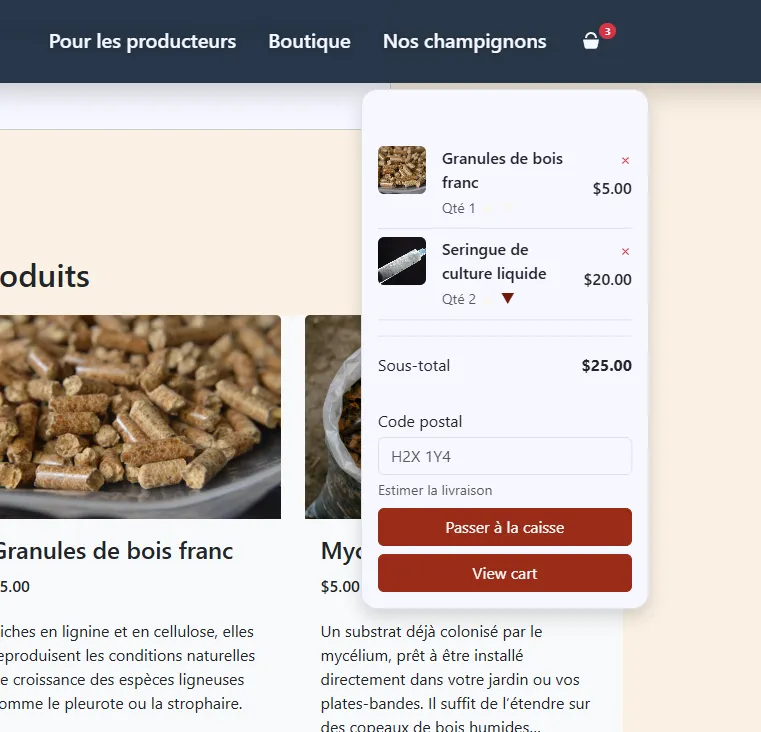
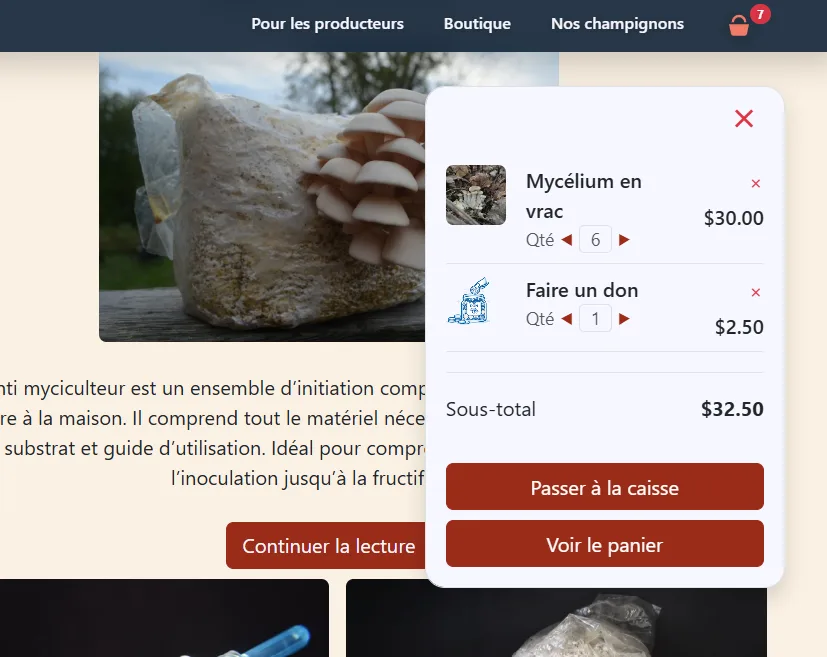
Rework Sporacultus section layout

diff --git a/index.html b/index.html
@@ -249,6 +249,48 @@
                 <span data-only="recruteur" class="badge text-bg-secondary">WooCommerce</span>
                 <span data-only="recruteur" class="badge text-bg-secondary">JavaScript</span>
               </div>
+              <!-- Même grille que Wabasso : média à gauche, texte et bouton à droite -->
+              <div class="row g-4 g-lg-5 align-items-start">
+                <div class="col-12 col-lg-7">
+                  <div class="cursor-label mb-4">
+                    <div class="position-relative">
+                      <video
+                        class="rounded-4 img-fluid d-block w-100"
+                        src="assets/video/spora-demo.mp4"
+                        poster="assets/img/spora-demo-poster.jpg"
+                        autoplay
+                        muted
+                        loop
+                        playsinline
+                        preload="metadata"
+                        aria-label="Démonstration de l'animation interactive de la page d'accueil de Sporacultus"
+                      ></video>
+                      <a
+                        href="https://sporacultus.ca/"
+                        target="_blank"
+                        rel="noopener"
+                        class="badge rounded-pill text-bg-dark text-decoration-none position-absolute bottom-0 end-0 m-3 fs-6"
+                        >sporacultus.ca ↗</a
+                      >
+                    </div>
+                    <span class="cursor-label__text"
+                      >Vrai site en production, animation codée en JavaScript
+                      natif</span
+                    >
+                  </div>
+                  <div class="cursor-label col-sm-8">
+                    <img
+                      src="assets/img/spora-shop-and-minicart.webp"
+                      alt="Boutique Sporacultus avec mini-panier ouvert"
+                      class="rounded-4 img-fluid d-block w-100"
+                      loading="lazy"
+                    />
+                    <span class="cursor-label__text"
+                      >Mini-panier fait sur mesure</span
+                    >
+                  </div>
+                </div>
+                <div class="col-12 col-lg-5">
               <p class="mb-4">
                 Sporacultus est mon projet personnel de culture de champignons.
                 À l'origine un site vitrine, je le fais évoluer en boutique
@@ -262,59 +304,7 @@
                 découvre les produits que je mets de l'avant en creusant la
                 terre, puis on peut les faire pousser.
               </p>
-              <div class="cursor-label mb-4">
-                <div class="position-relative">
-                  <video
-                    class="rounded-4 img-fluid d-block w-100"
-                    src="assets/video/spora-demo.mp4"
-                    poster="assets/img/spora-demo-poster.jpg"
-                    autoplay
-                    muted
-                    loop
-                    playsinline
-                    preload="metadata"
-                    aria-label="Démonstration de l'animation interactive de la page d'accueil de Sporacultus"
-                  ></video>
-                  <a
-                    href="https://sporacultus.ca/"
-                    target="_blank"
-                    rel="noopener"
-                    class="badge rounded-pill text-bg-dark text-decoration-none position-absolute bottom-0 end-0 m-3 fs-6"
-                    >sporacultus.ca ↗</a
-                  >
-                </div>
-                <span class="cursor-label__text"
-                  >Vrai site en production, animation codée en JavaScript
-                  natif</span
-                >
-              </div>
-              <div class="row g-3 align-items-start justify-content-center">
-                <div class="col-12 col-sm-4">
-                  <img
-                    src="assets/img/spora-shop.webp"
-                    alt="Page boutique de Sporacultus"
-                    class="rounded-4 img-fluid"
-                    loading="lazy"
-                  />
-                </div>
-                <div class="col-12 col-sm-4">
-                  <img
-                    src="assets/img/spora-shop-and-minicart.webp"
-                    alt="Boutique Sporacultus avec mini-panier ouvert"
-                    class="rounded-4 img-fluid"
-                    loading="lazy"
-                  />
-                </div>
-                <div class="col-12 col-sm-4">
-                  <img
-                    src="assets/img/spora-header.webp"
-                    alt="Header déployé de Sporacultus avec la navigation utilitaire"
-                    class="rounded-4 img-fluid"
-                    loading="lazy"
-                  />
-                </div>
-              </div>
-              <div data-recruteur hidden class="py-4">
+              <div data-recruteur hidden class="mb-4">
                 <p class="mb-0">
                   L'animation s'aligne avec les objectifs principaux du site :
                   éduquer les visiteurs sur la culture des champignons et faire
@@ -327,13 +317,13 @@
                                     Ce projet me permet d’apprendre sur un cas réel avec WordPress, PHP et WooCommerce. J’y développe de meilleurs réflexes pour comprendre sur quels fichiers intervenir, comment WordPress assemble les pages et comment faire des ajustements sans nuire à la structure existante. Chaque problème rencontré m’aide à progresser vers un code plus propre et plus maintenable.
                                 </p> -->
               </div>
-              <div class="d-flex justify-content-center mt-4">
-                <a
-                  href="https://sporacultus.ca/"
-                  target="_blank"
-                  class="btn btn-primary"
-                  >Voir Sporacultus</a
-                >
+              <a
+                href="https://sporacultus.ca/"
+                target="_blank"
+                class="btn btn-primary"
+                >Voir Sporacultus</a
+              >
+                </div>
               </div>
             </div>
           </div>
